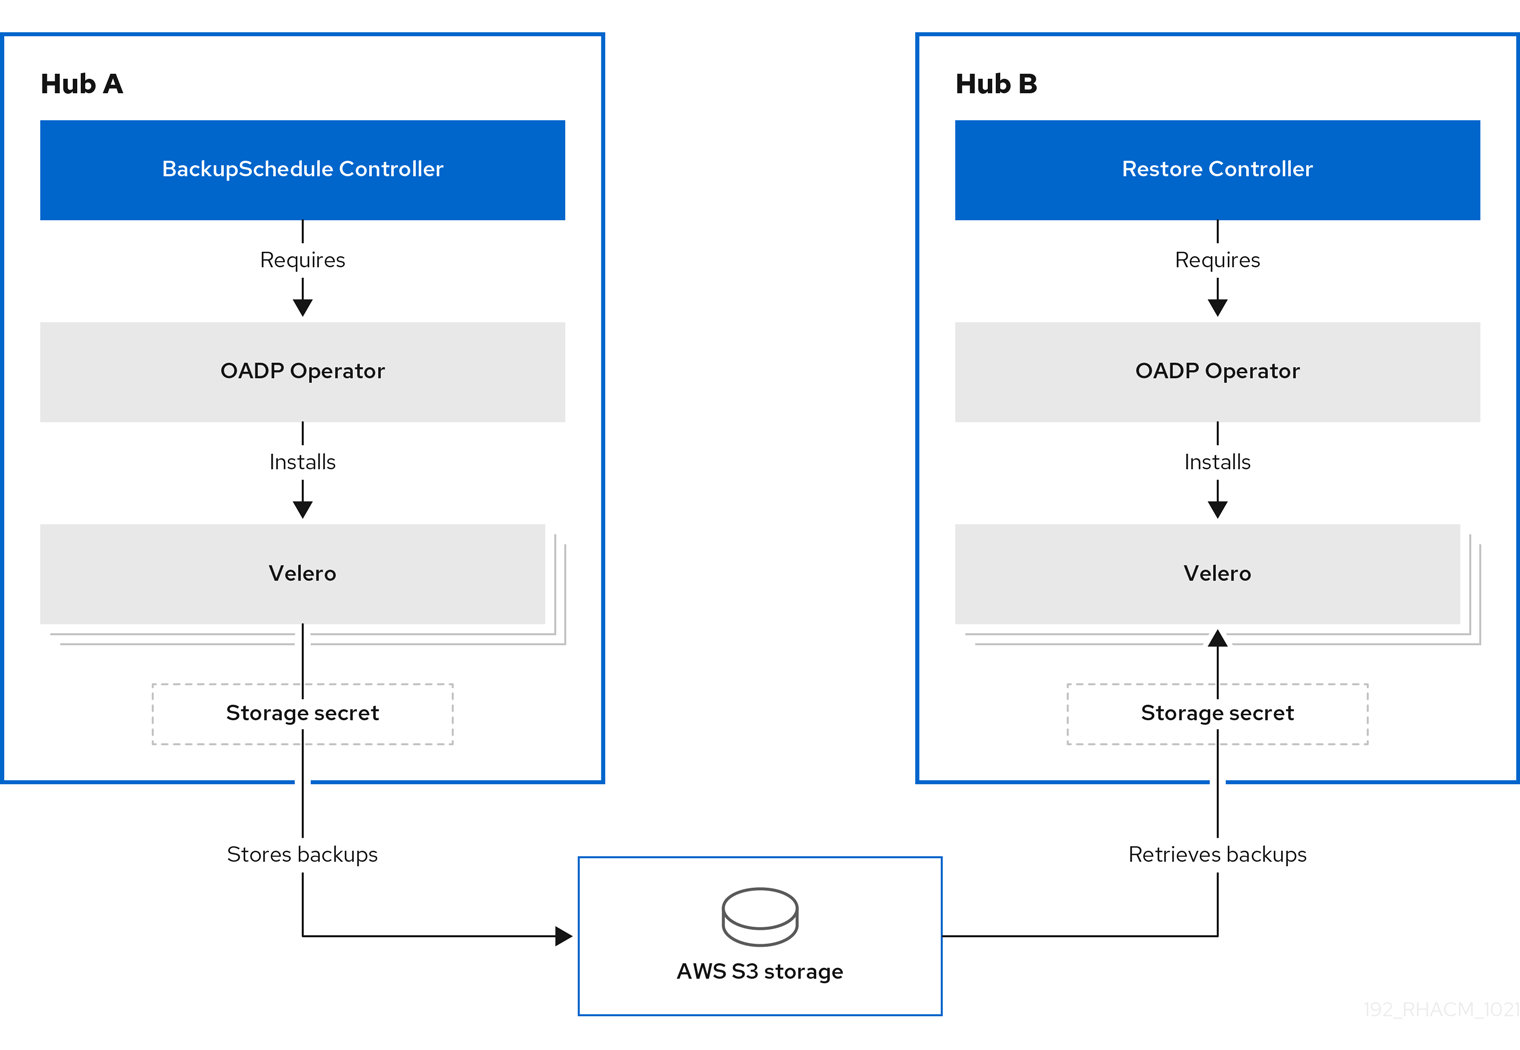
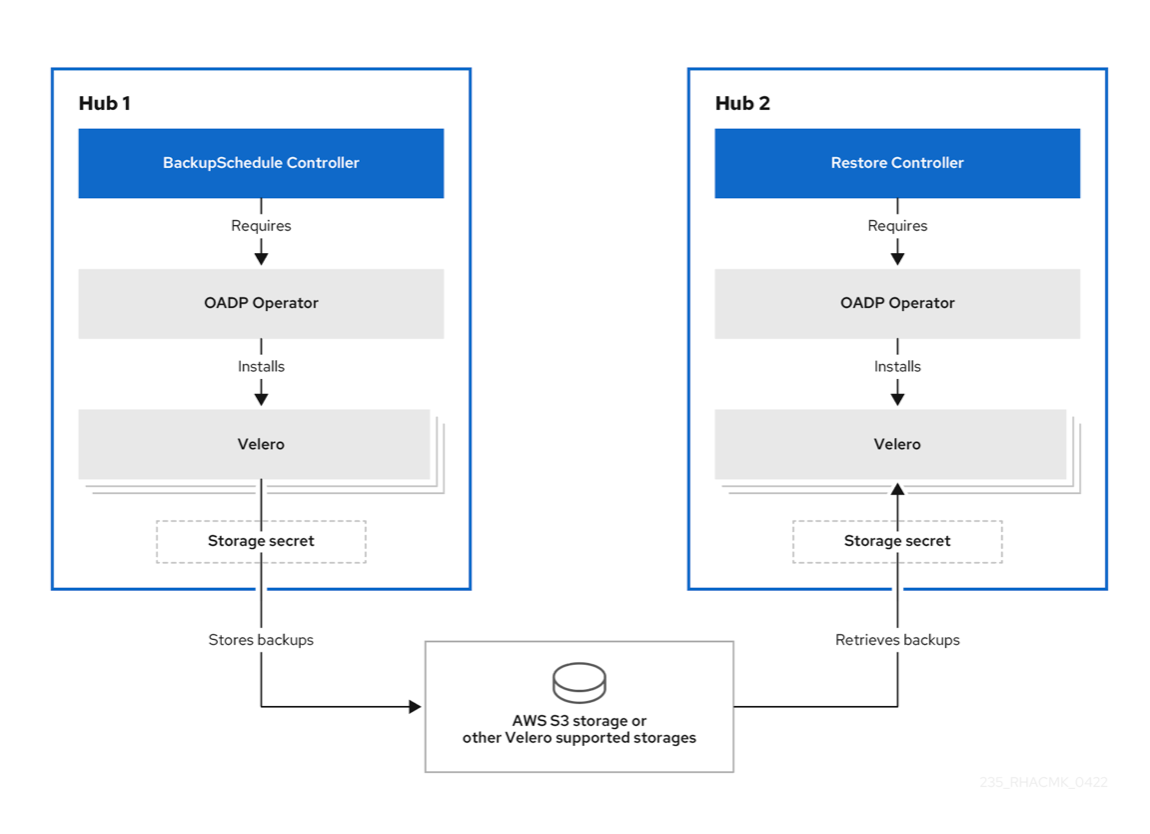
initial checkin of the new images for dr design

diff --git a/README.md b/README.md
@@ -403,6 +403,9 @@ In an active passive configuration you have
 - one hub, called active or primary hub, which manages the clusters and is backing up resources at defined time intervals, using the `BackupSchedule.cluster.open-cluster-management.io` resource
 - one or more passive hubs, which are continously retrieving the latest backups and restoring the [passive data](#passive-data). The passive hubs use the `Restore.cluster.open-cluster-management.io` resource to keep restoring passive data posted by the primary hub, when new backup data is available. These hubs are on standby to become a primary hub when the primary hub goes down. They are connected to the same storage location where the primary hub backs up data so they can access the primary hub backups. For more details on how to setup this automatic restore configuration see the [Restoring passive resources and check for new backups](#restoring-passive-resources-and-check-for-new-backups) section.
 
+In the image below, the active hub manages the remote clusters and backs up hub data at regular intervals.
+The passive hubs restore this data, except for the managed clusters activation data, which would move the managed clusters to the passive hub. The passive hubs can restore the passive data continously, or as a one time operation.
+
 ![Active Passive Configuration Dataflow](images/active-passive-configuration-dataflow.png)
 
 ## Disaster recovery
